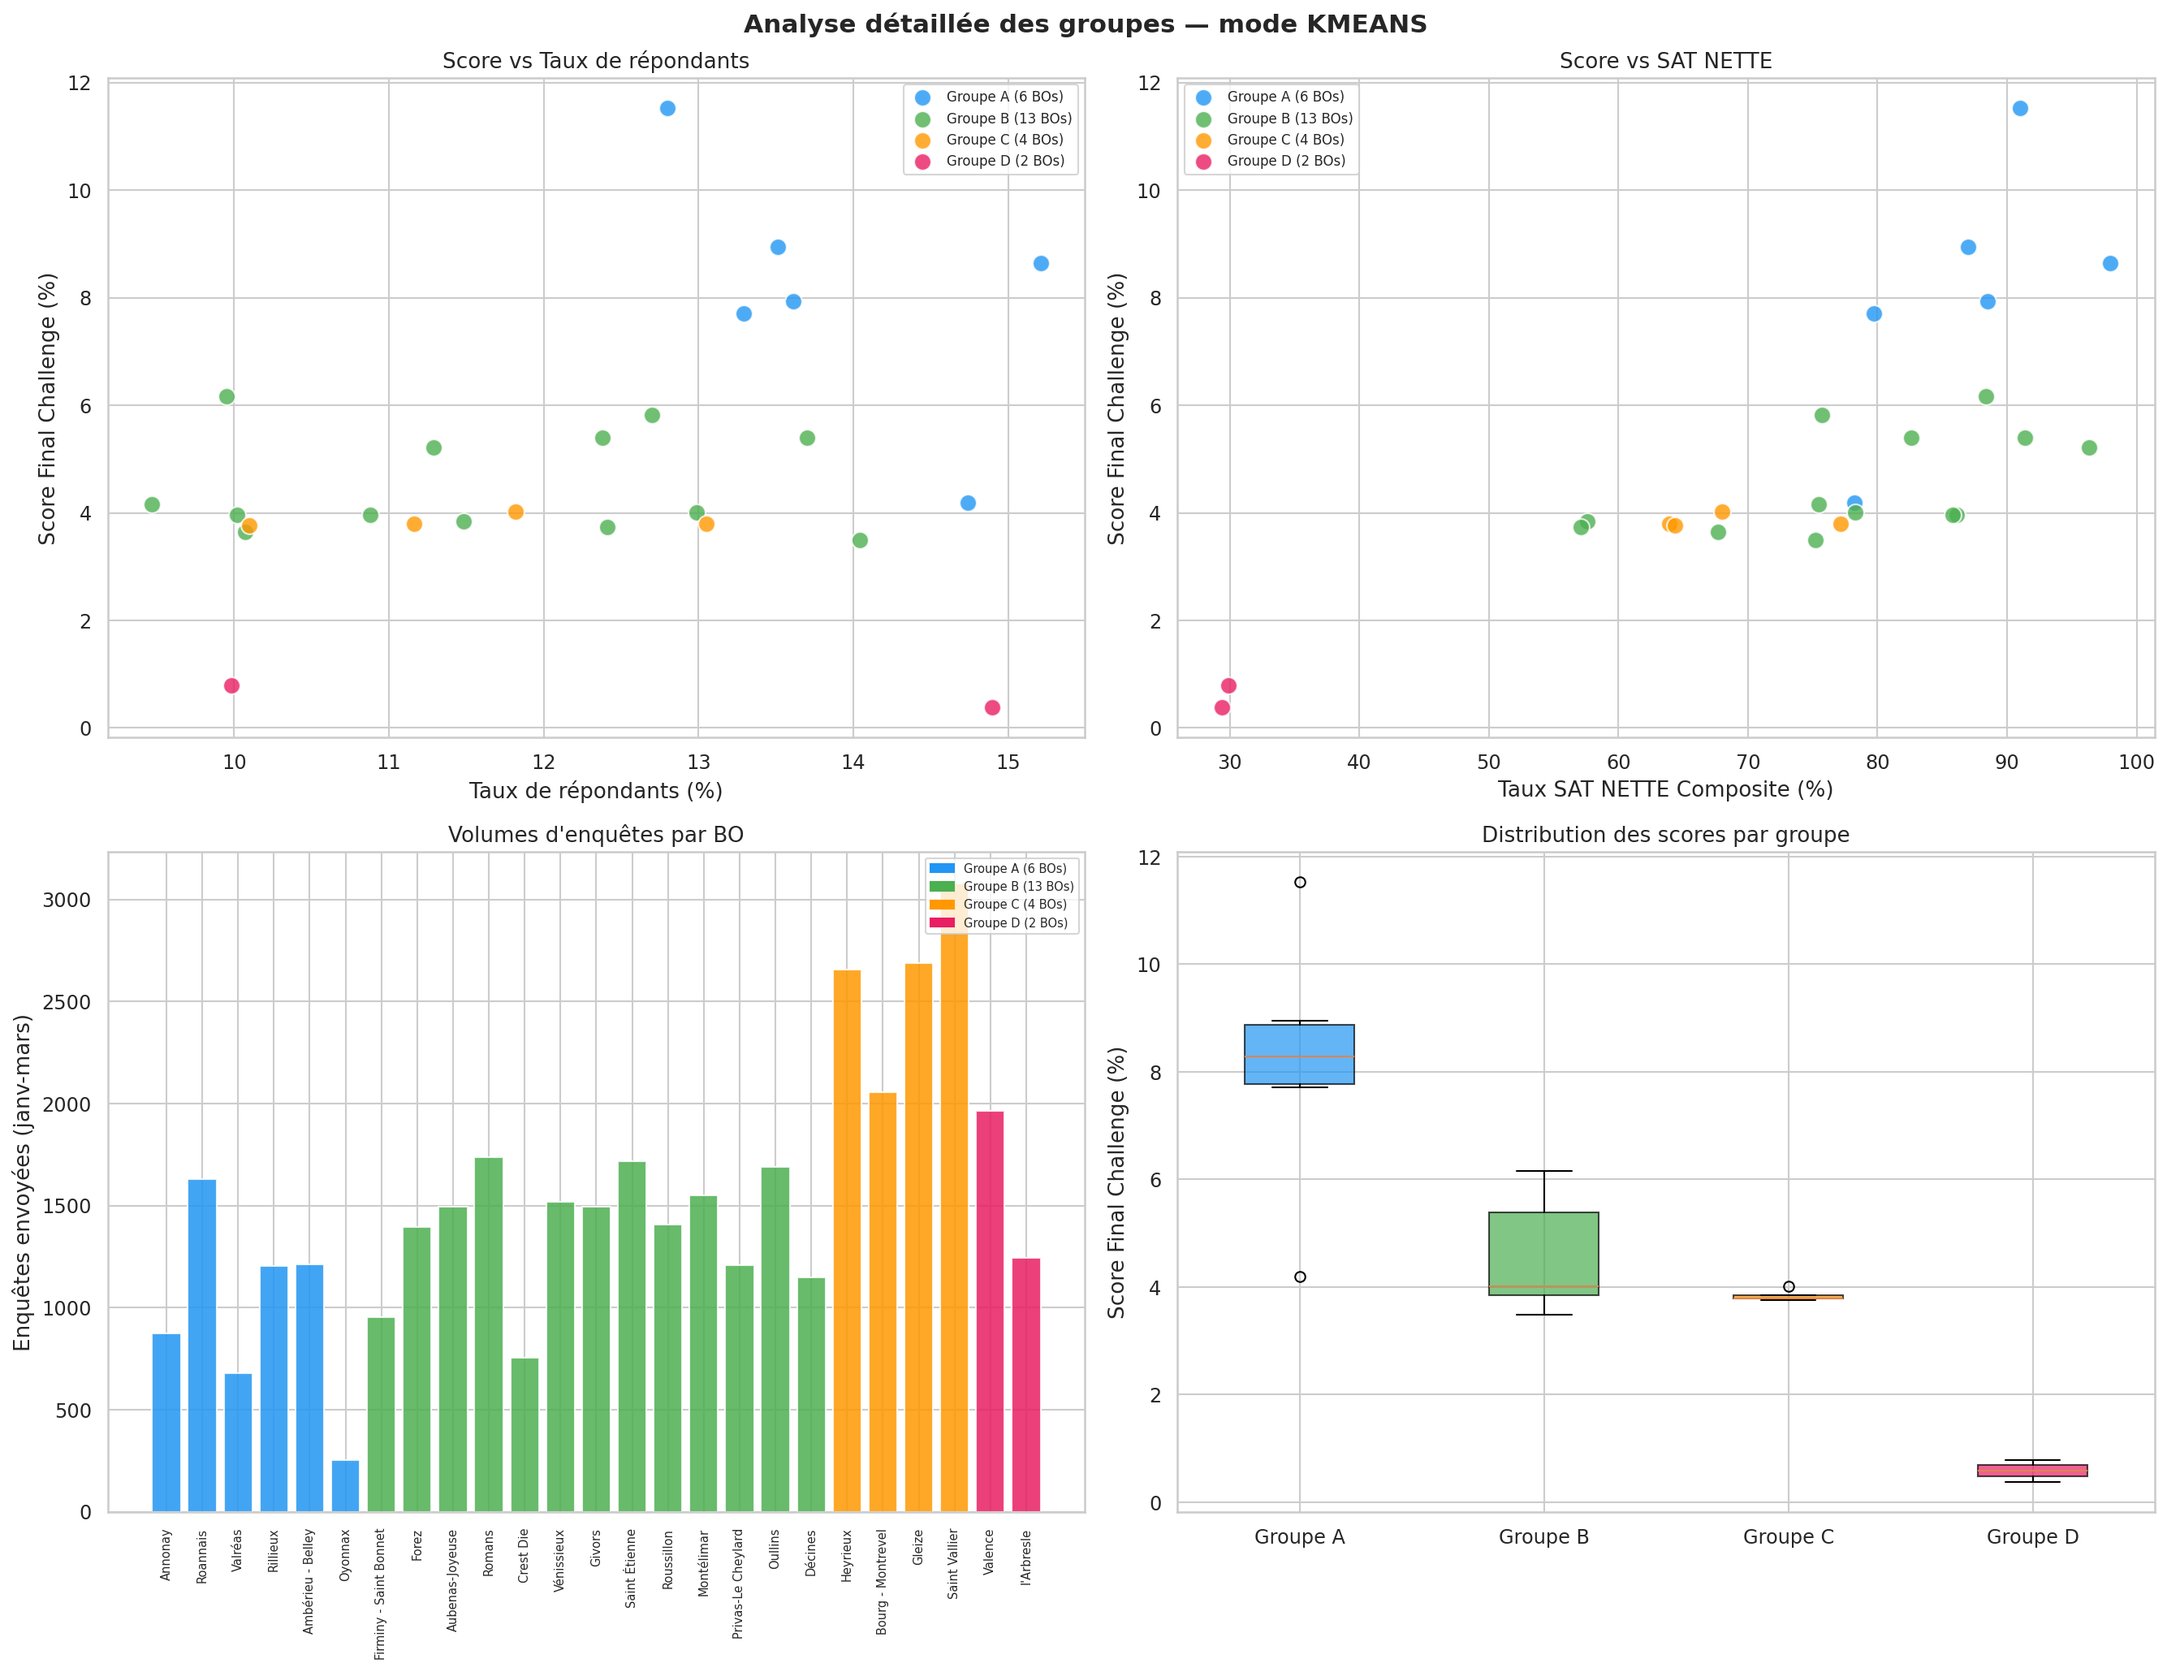
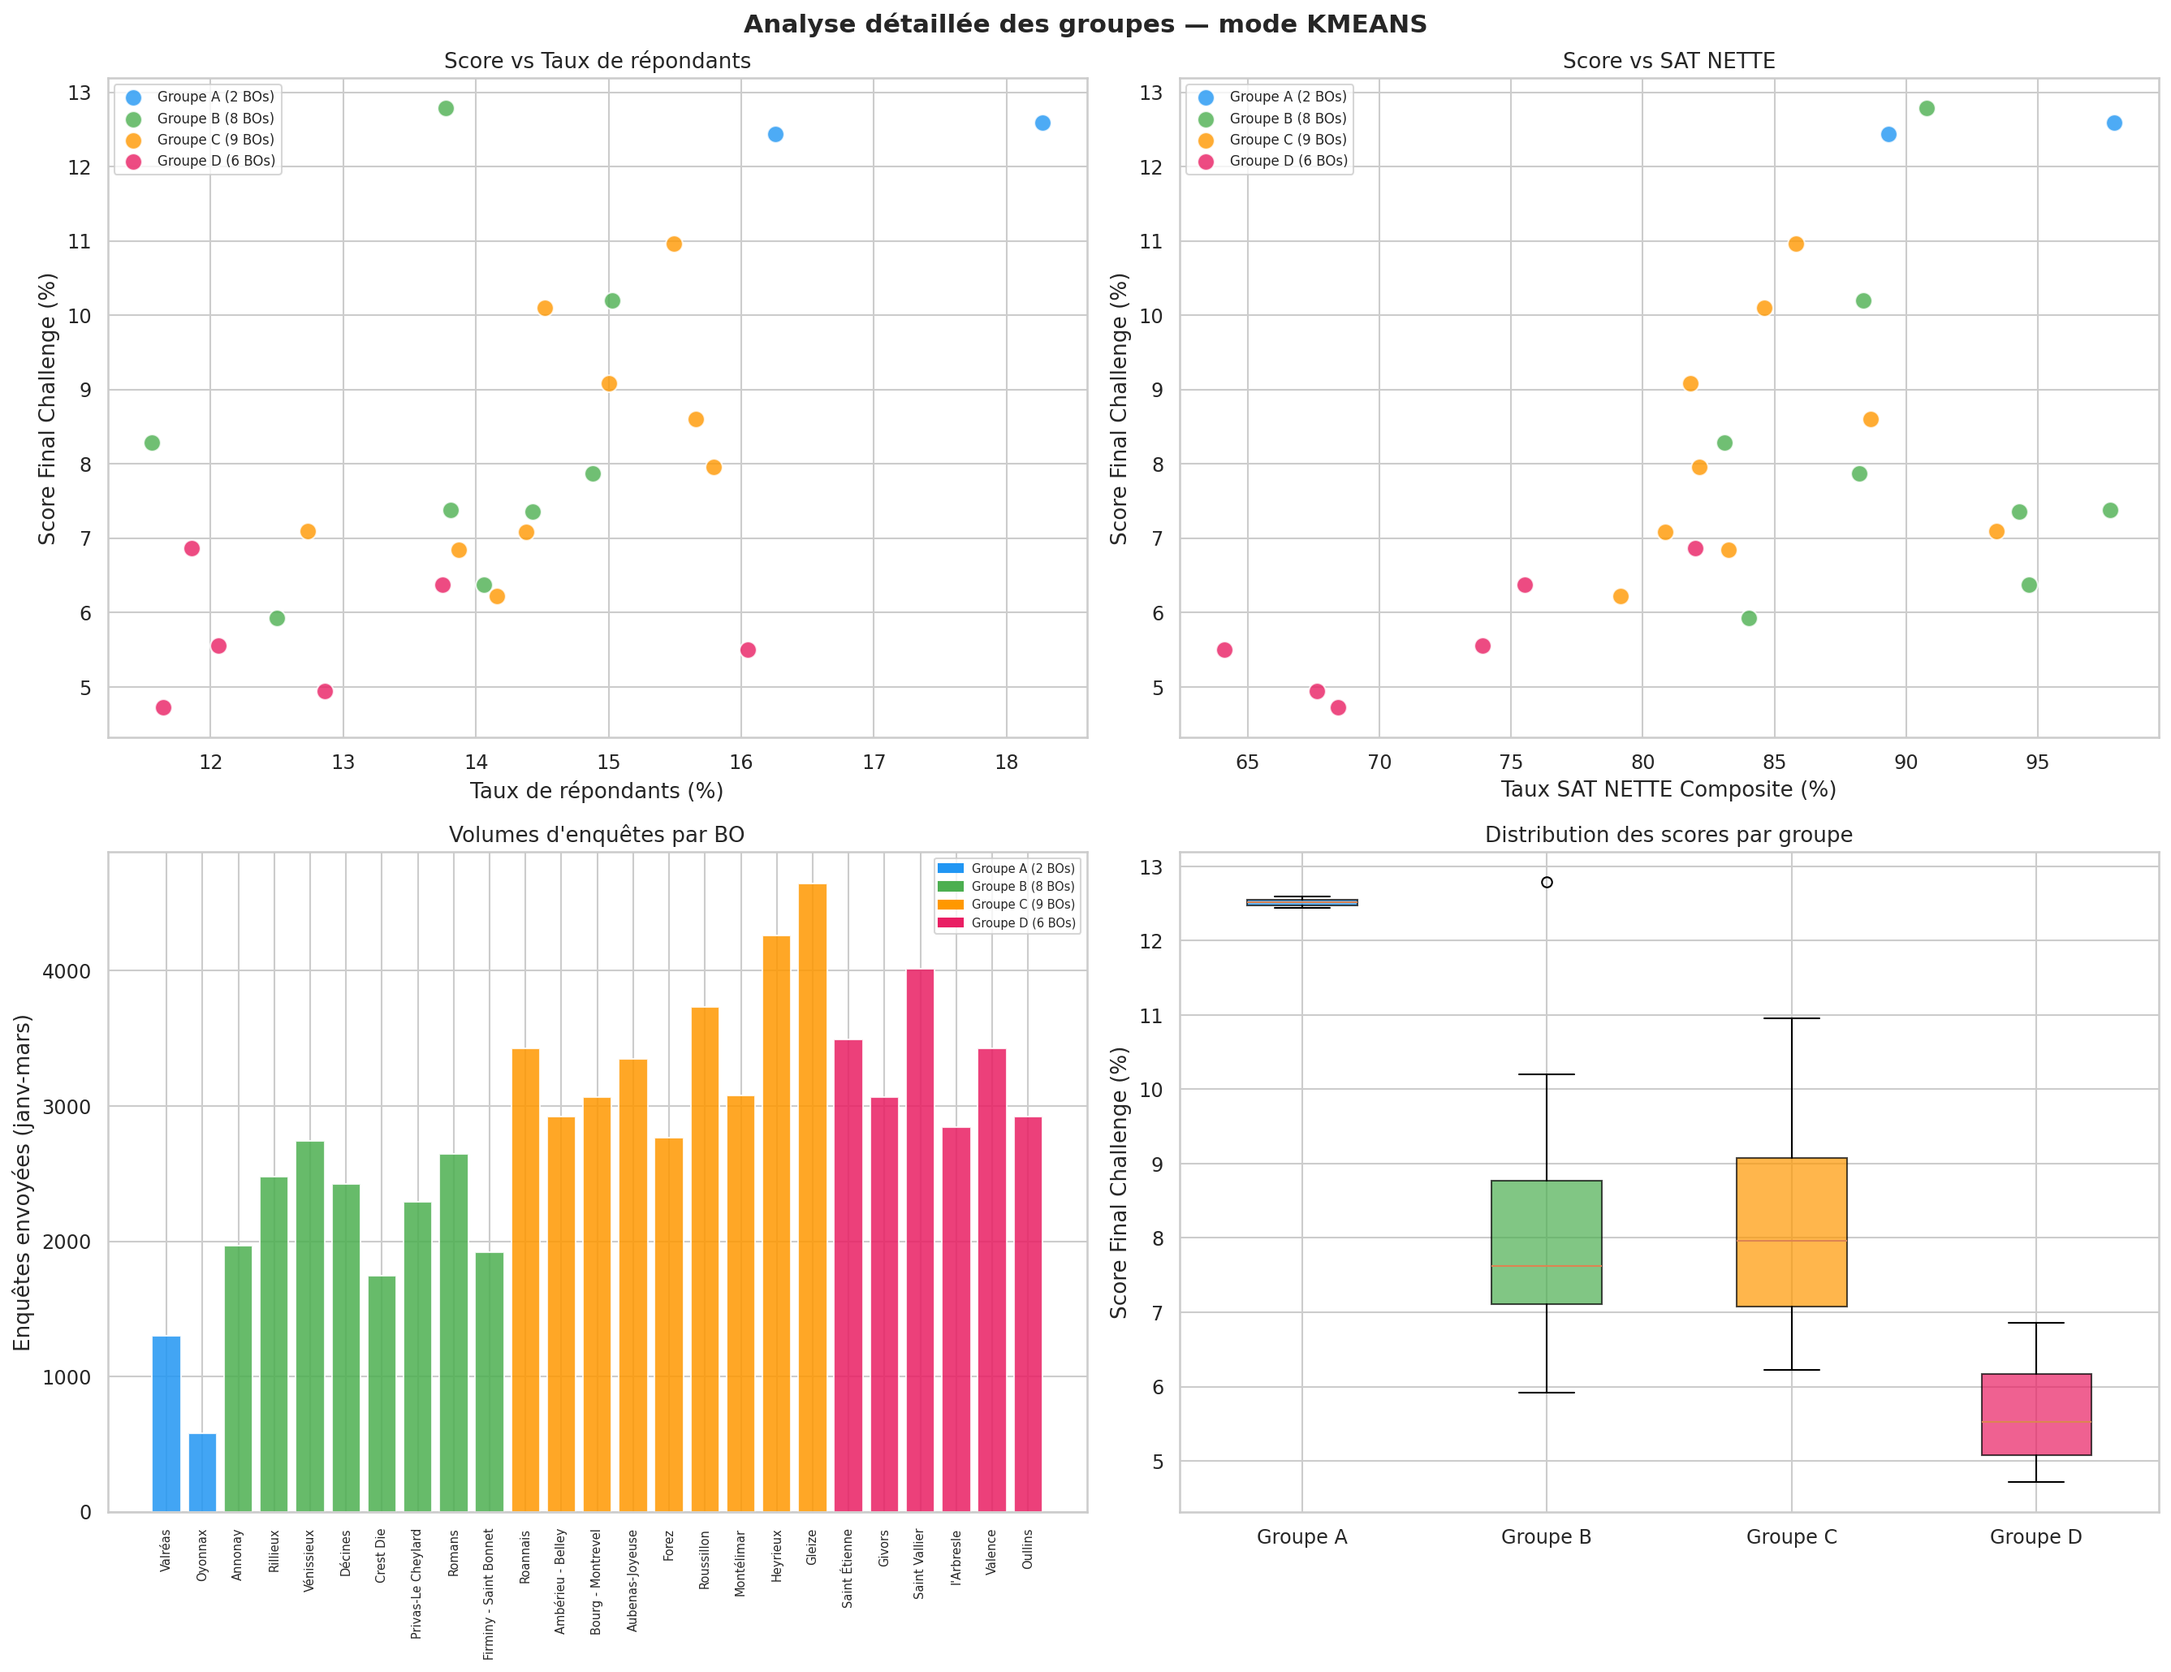
Relance clustering et simulation avec stats oct-2025 a mars-2026

diff --git a/simulation_challenge.py b/simulation_challenge.py
@@ -14,6 +14,7 @@ np.random.seed(42)
 GROUPING_MODE = os.getenv("GROUPING_MODE", "kmeans").strip().lower()
 if GROUPING_MODE not in {"kmeans", "manuel"}:
     raise ValueError("GROUPING_MODE doit valoir 'kmeans' ou 'manuel'")
+STATS_FILE = os.getenv("STATS_FILE", "").strip()
 
 group_labels = {1: "Groupe A", 2: "Groupe B", 3: "Groupe C", 4: "Groupe D"}
 colors_4 = ["#2196F3", "#4CAF50", "#FF9800", "#E91E63"]
@@ -32,11 +33,17 @@ def parse_fr_number(series: pd.Series) -> pd.Series:
 
 
 def load_stats() -> pd.DataFrame:
-    candidates = [
-        Path("/workspace/stats_janvier_mars_2026.csv"),
-        Path("/workspace/data/stats_janvier_mars_2026.csv"),
-        Path("/home/ubuntu/.cursor/projects/workspace/uploads/stats_janvier_mars_2026.csv"),
-    ]
+    if STATS_FILE:
+        candidates = [Path(STATS_FILE)]
+    else:
+        candidates = [
+            Path("/workspace/stats_octobre_2025_mars_2026.csv"),
+            Path("/workspace/data/stats_octobre_2025_mars_2026.csv"),
+            Path("/home/ubuntu/.cursor/projects/workspace/uploads/stats_octobre_2025_mars_2026.csv"),
+            Path("/workspace/stats_janvier_mars_2026.csv"),
+            Path("/workspace/data/stats_janvier_mars_2026.csv"),
+            Path("/home/ubuntu/.cursor/projects/workspace/uploads/stats_janvier_mars_2026.csv"),
+        ]
     stats_path = next((p for p in candidates if p.exists()), None)
     if stats_path is None:
         raise FileNotFoundError("stats_janvier_mars_2026.csv introuvable")

diff --git a/analyse_challenge_reel_jan_mars_2026.py b/analyse_challenge_reel_jan_mars_2026.py
@@ -1,3 +1,4 @@
+import os
 from pathlib import Path
 
 import pandas as pd
@@ -20,11 +21,17 @@ def parse_fr_number(series: pd.Series) -> pd.Series:
     )
 
 
-stats_candidates = [
-    Path("/workspace/stats_janvier_mars_2026.csv"),
-    Path("/workspace/data/stats_janvier_mars_2026.csv"),
-    Path("/home/ubuntu/.cursor/projects/workspace/uploads/stats_janvier_mars_2026.csv"),
-]
+stats_env = os.getenv("STATS_FILE", "").strip()
+stats_candidates = []
+if stats_env:
+    stats_candidates.append(Path(stats_env))
+stats_candidates.extend(
+    [
+        Path("/workspace/stats_janvier_mars_2026.csv"),
+        Path("/workspace/data/stats_janvier_mars_2026.csv"),
+        Path("/home/ubuntu/.cursor/projects/workspace/uploads/stats_janvier_mars_2026.csv"),
+    ]
+)
 stats_path = next((p for p in stats_candidates if p.exists()), None)
 if stats_path is None:
     raise FileNotFoundError("Impossible de trouver stats_janvier_mars_2026.csv")

diff --git a/analyse_groupes_bo.py b/analyse_groupes_bo.py
@@ -32,12 +32,17 @@ def parse_fr_number(series: pd.Series) -> pd.Series:
 
 
 def load_stats_jan_mars() -> pd.DataFrame:
+    stats_env = os.getenv("STATS_FILE", "").strip()
     candidates = [
+        Path(stats_env) if stats_env else None,
+        Path("/workspace/stats_octobre_2025_mars_2026.csv"),
+        Path("/workspace/data/stats_octobre_2025_mars_2026.csv"),
+        Path("/home/ubuntu/.cursor/projects/workspace/uploads/stats_octobre_2025_mars_2026.csv"),
         Path("/workspace/stats_janvier_mars_2026.csv"),
         Path("/workspace/data/stats_janvier_mars_2026.csv"),
         Path("/home/ubuntu/.cursor/projects/workspace/uploads/stats_janvier_mars_2026.csv"),
     ]
-    stats_path = next((p for p in candidates if p.exists()), None)
+    stats_path = next((p for p in candidates if p is not None and p.exists()), None)
     if stats_path is None:
         raise FileNotFoundError("stats_janvier_mars_2026.csv introuvable")
 

diff --git a/GROUPES_BO_STATS.md b/GROUPES_BO_STATS.md
@@ -8,76 +8,76 @@
 
 | Groupe | Nom | Nb BO | Score moyen | Score min | Score max | Tx répondants moy. | SAT nette moy. | Enquêtes moy. | Répondants moy. |
 |---|---|---:|---:|---:|---:|---:|---:|---:|---:|
-| 1 | Groupe A (6 BOs) | 6 | 8.16 | 4.19 | 11.53 | 13.86% | 87.07% | 974 | 133 |
-| 2 | Groupe B (13 BOs) | 13 | 4.52 | 3.49 | 6.16 | 11.64% | 78.29% | 1390 | 162 |
-| 3 | Groupe C (4 BOs) | 4 | 3.84 | 3.76 | 4.02 | 11.53% | 68.37% | 2619 | 298 |
-| 4 | Groupe D (2 BOs) | 2 | 0.58 | 0.38 | 0.79 | 12.44% | 29.64% | 1603 | 190 |
+| 1 | Groupe A (2 BOs) | 2 | 12.52 | 12.44 | 12.59 | 17.27% | 93.61% | 940 | 166 |
+| 2 | Groupe B (8 BOs) | 8 | 8.27 | 5.92 | 12.79 | 13.76% | 90.15% | 2277 | 313 |
+| 3 | Groupe C (9 BOs) | 9 | 8.21 | 6.22 | 10.96 | 14.62% | 84.41% | 3472 | 505 |
+| 4 | Groupe D (6 BOs) | 6 | 5.66 | 4.72 | 6.86 | 13.04% | 71.92% | 3294 | 426 |
 
 ---
 
-## Groupe A (6 BOs)
+## Groupe A (2 BOs)
 
-- Score moyen: **8.16**
-- Taux de répondants moyen: **13.86%**
-- Taux SAT NETTE moyen: **87.07%**
+- Score moyen: **12.52**
+- Taux de répondants moyen: **17.27%**
+- Taux SAT NETTE moyen: **93.61%**
 
 | Rang grp | Rang global | BO | Score Final Challenge | Tx répondants | SAT Nette | Enquêtes envoyées | Répondants | PART | PRO | ENT | Points gagnés | Points potentiels |
 |---:|---:|---|---:|---:|---:|---:|---:|---:|---:|---:|---:|---:|
-| 1 | 1 | BO Annonay | 11.53 | 12.80% | 91.02% | 875 | 112 | 98 | 9 | 5 | 1015 | 8804 |
-| 2 | 2 | BO Roannais | 8.95 | 13.51% | 86.97% | 1628 | 220 | 198 | 16 | 6 | 1481 | 16552 |
-| 3 | 3 | BO Valréas | 8.64 | 15.21% | 97.98% | 677 | 103 | 99 | 3 | 1 | 415 | 4804 |
-| 4 | 4 | BO Rillieux | 7.94 | 13.61% | 88.48% | 1205 | 164 | 152 | 9 | 3 | 893 | 11240 |
-| 5 | 5 | BO Ambérieu - Belley | 7.71 | 13.29% | 79.73% | 1211 | 161 | 147 | 7 | 7 | 1221 | 15830 |
-| 6 | 11 | BO Oyonnax | 4.19 | 14.74% | 78.24% | 251 | 37 | 34 | 2 | 1 | 209 | 4986 |
+| 1 | 2 | BO Valréas | 12.59 | 18.27% | 97.91% | 1303 | 238 | 220 | 16 | 2 | 1224 | 9720 |
+| 2 | 3 | BO Oyonnax | 12.44 | 16.26% | 89.32% | 578 | 94 | 78 | 9 | 7 | 1291 | 10376 |
 
 ---
 
-## Groupe B (13 BOs)
+## Groupe B (8 BOs)
 
-- Score moyen: **4.52**
-- Taux de répondants moyen: **11.64%**
-- Taux SAT NETTE moyen: **78.29%**
+- Score moyen: **8.27**
+- Taux de répondants moyen: **13.75%**
+- Taux SAT NETTE moyen: **90.15%**
 
 | Rang grp | Rang global | BO | Score Final Challenge | Tx répondants | SAT Nette | Enquêtes envoyées | Répondants | PART | PRO | ENT | Points gagnés | Points potentiels |
 |---:|---:|---|---:|---:|---:|---:|---:|---:|---:|---:|---:|---:|
-| 1 | 6 | BO Firminy - Saint Bonnet | 6.16 | 9.95% | 88.39% | 955 | 95 | 83 | 11 | 1 | 556 | 9030 |
-| 2 | 7 | BO Forez | 5.82 | 12.70% | 75.72% | 1394 | 177 | 159 | 11 | 7 | 1140 | 19576 |
-| 3 | 8 | BO Aubenas-Joyeuse | 5.40 | 13.70% | 82.60% | 1496 | 205 | 187 | 15 | 3 | 916 | 16954 |
-| 4 | 9 | BO Romans | 5.39 | 12.38% | 91.41% | 1737 | 215 | 198 | 12 | 5 | 1308 | 24262 |
-| 5 | 10 | BO Crest Die | 5.21 | 11.29% | 96.32% | 753 | 85 | 76 | 8 | 1 | 547 | 10506 |
-| 6 | 12 | BO Vénissieux | 4.16 | 9.47% | 75.45% | 1520 | 144 | 129 | 9 | 6 | 799 | 19206 |
-| 7 | 14 | BO Givors | 4.01 | 12.99% | 78.30% | 1493 | 194 | 182 | 11 | 1 | 518 | 12906 |
-| 8 | 15 | BO Saint Étienne | 3.97 | 10.88% | 86.13% | 1718 | 187 | 172 | 14 | 1 | 685 | 17254 |
-| 9 | 16 | BO Roussillon | 3.96 | 10.02% | 85.80% | 1407 | 141 | 127 | 13 | 1 | 612 | 15474 |
-| 10 | 17 | BO Montélimar | 3.84 | 11.48% | 57.62% | 1550 | 178 | 168 | 10 | 0 | 611 | 15916 |
-| 11 | 21 | BO Privas-Le Cheylard | 3.74 | 12.41% | 57.08% | 1209 | 150 | 144 | 6 | 0 | 431 | 11530 |
-| 12 | 22 | BO Oullins | 3.65 | 10.07% | 67.69% | 1688 | 170 | 144 | 23 | 3 | 836 | 22918 |
-| 13 | 23 | BO Décines | 3.49 | 14.04% | 75.23% | 1147 | 161 | 149 | 9 | 3 | 600 | 17170 |
+| 1 | 1 | BO Annonay | 12.79 | 13.77% | 90.77% | 1968 | 271 | 240 | 21 | 10 | 2224 | 17388 |
+| 2 | 5 | BO Rillieux | 10.20 | 15.03% | 88.36% | 2475 | 372 | 328 | 35 | 9 | 2696 | 26430 |
+| 3 | 9 | BO Vénissieux | 8.29 | 11.56% | 83.11% | 2742 | 317 | 273 | 27 | 17 | 2978 | 35928 |
+| 4 | 11 | BO Décines | 7.87 | 14.88% | 88.21% | 2426 | 361 | 319 | 29 | 13 | 2835 | 36032 |
+| 5 | 12 | BO Crest Die | 7.38 | 13.81% | 97.75% | 1745 | 241 | 213 | 24 | 4 | 1717 | 23268 |
+| 6 | 13 | BO Privas-Le Cheylard | 7.36 | 14.43% | 94.30% | 2294 | 331 | 306 | 23 | 2 | 1523 | 20696 |
+| 7 | 18 | BO Romans | 6.37 | 14.06% | 94.65% | 2646 | 372 | 342 | 23 | 7 | 2245 | 35256 |
+| 8 | 21 | BO Firminy - Saint Bonnet | 5.92 | 12.50% | 84.03% | 1920 | 240 | 216 | 21 | 3 | 1093 | 18452 |
 
 ---
 
-## Groupe C (4 BOs)
+## Groupe C (9 BOs)
 
-- Score moyen: **3.84**
-- Taux de répondants moyen: **11.53%**
-- Taux SAT NETTE moyen: **68.37%**
+- Score moyen: **8.21**
+- Taux de répondants moyen: **14.62%**
+- Taux SAT NETTE moyen: **84.41%**
 
 | Rang grp | Rang global | BO | Score Final Challenge | Tx répondants | SAT Nette | Enquêtes envoyées | Répondants | PART | PRO | ENT | Points gagnés | Points potentiels |
 |---:|---:|---|---:|---:|---:|---:|---:|---:|---:|---:|---:|---:|
-| 1 | 13 | BO Heyrieux | 4.02 | 11.82% | 68.03% | 2656 | 314 | 300 | 7 | 7 | 985 | 24486 |
-| 2 | 18 | BO Bourg - Montrevel | 3.79 | 13.05% | 63.94% | 2054 | 268 | 249 | 12 | 7 | 796 | 21008 |
-| 2 | 18 | BO Gleize | 3.79 | 11.16% | 77.16% | 2689 | 300 | 275 | 23 | 2 | 902 | 23806 |
-| 4 | 20 | BO Saint Vallier | 3.76 | 10.10% | 64.35% | 3078 | 311 | 272 | 31 | 8 | 1210 | 32178 |
+| 1 | 4 | BO Roannais | 10.96 | 15.49% | 85.81% | 3427 | 531 | 472 | 44 | 15 | 3736 | 34102 |
+| 2 | 6 | BO Ambérieu - Belley | 10.10 | 14.52% | 84.61% | 2920 | 424 | 380 | 24 | 20 | 3401 | 33688 |
+| 3 | 7 | BO Bourg - Montrevel | 9.08 | 15.00% | 81.80% | 3066 | 460 | 405 | 38 | 17 | 3154 | 34748 |
+| 4 | 8 | BO Aubenas-Joyeuse | 8.60 | 15.66% | 88.64% | 3347 | 524 | 472 | 44 | 8 | 2904 | 33786 |
+| 5 | 10 | BO Forez | 7.96 | 15.79% | 82.13% | 2768 | 437 | 388 | 38 | 11 | 2734 | 34350 |
+| 6 | 14 | BO Roussillon | 7.09 | 12.73% | 93.44% | 3731 | 475 | 440 | 30 | 5 | 2334 | 32902 |
+| 7 | 15 | BO Montélimar | 7.08 | 14.38% | 80.86% | 3080 | 443 | 395 | 41 | 7 | 2335 | 33000 |
+| 8 | 17 | BO Heyrieux | 6.84 | 13.87% | 83.26% | 4261 | 591 | 550 | 30 | 11 | 2718 | 39710 |
+| 9 | 20 | BO Gleize | 6.22 | 14.16% | 79.15% | 4646 | 658 | 595 | 55 | 8 | 2623 | 42194 |
 
 ---
 
-## Groupe D (2 BOs)
+## Groupe D (6 BOs)
 
-- Score moyen: **0.58**
-- Taux de répondants moyen: **12.44%**
-- Taux SAT NETTE moyen: **29.64%**
+- Score moyen: **5.66**
+- Taux de répondants moyen: **13.04%**
+- Taux SAT NETTE moyen: **71.92%**
 
 | Rang grp | Rang global | BO | Score Final Challenge | Tx répondants | SAT Nette | Enquêtes envoyées | Répondants | PART | PRO | ENT | Points gagnés | Points potentiels |
 |---:|---:|---|---:|---:|---:|---:|---:|---:|---:|---:|---:|---:|
-| 1 | 24 | BO Valence | 0.79 | 9.98% | 29.89% | 1964 | 196 | 173 | 20 | 3 | 185 | 23390 |
-| 2 | 25 | BO l'Arbresle | 0.38 | 14.90% | 29.39% | 1242 | 185 | 169 | 13 | 3 | 52 | 13718 |
+| 1 | 16 | BO Saint Étienne | 6.86 | 11.86% | 82.00% | 3492 | 414 | 365 | 37 | 12 | 2615 | 38120 |
+| 2 | 18 | BO Givors | 6.37 | 13.75% | 75.50% | 3068 | 422 | 378 | 36 | 8 | 1917 | 30082 |
+| 3 | 22 | BO Saint Vallier | 5.55 | 12.06% | 73.90% | 4013 | 484 | 425 | 48 | 11 | 2356 | 42448 |
+| 4 | 23 | BO l'Arbresle | 5.50 | 16.05% | 64.10% | 2841 | 456 | 412 | 37 | 7 | 1618 | 29416 |
+| 5 | 24 | BO Valence | 4.94 | 12.86% | 67.62% | 3428 | 441 | 383 | 50 | 8 | 2017 | 40826 |
+| 6 | 25 | BO Oullins | 4.72 | 11.64% | 68.43% | 2920 | 340 | 287 | 44 | 9 | 1778 | 37658 |
